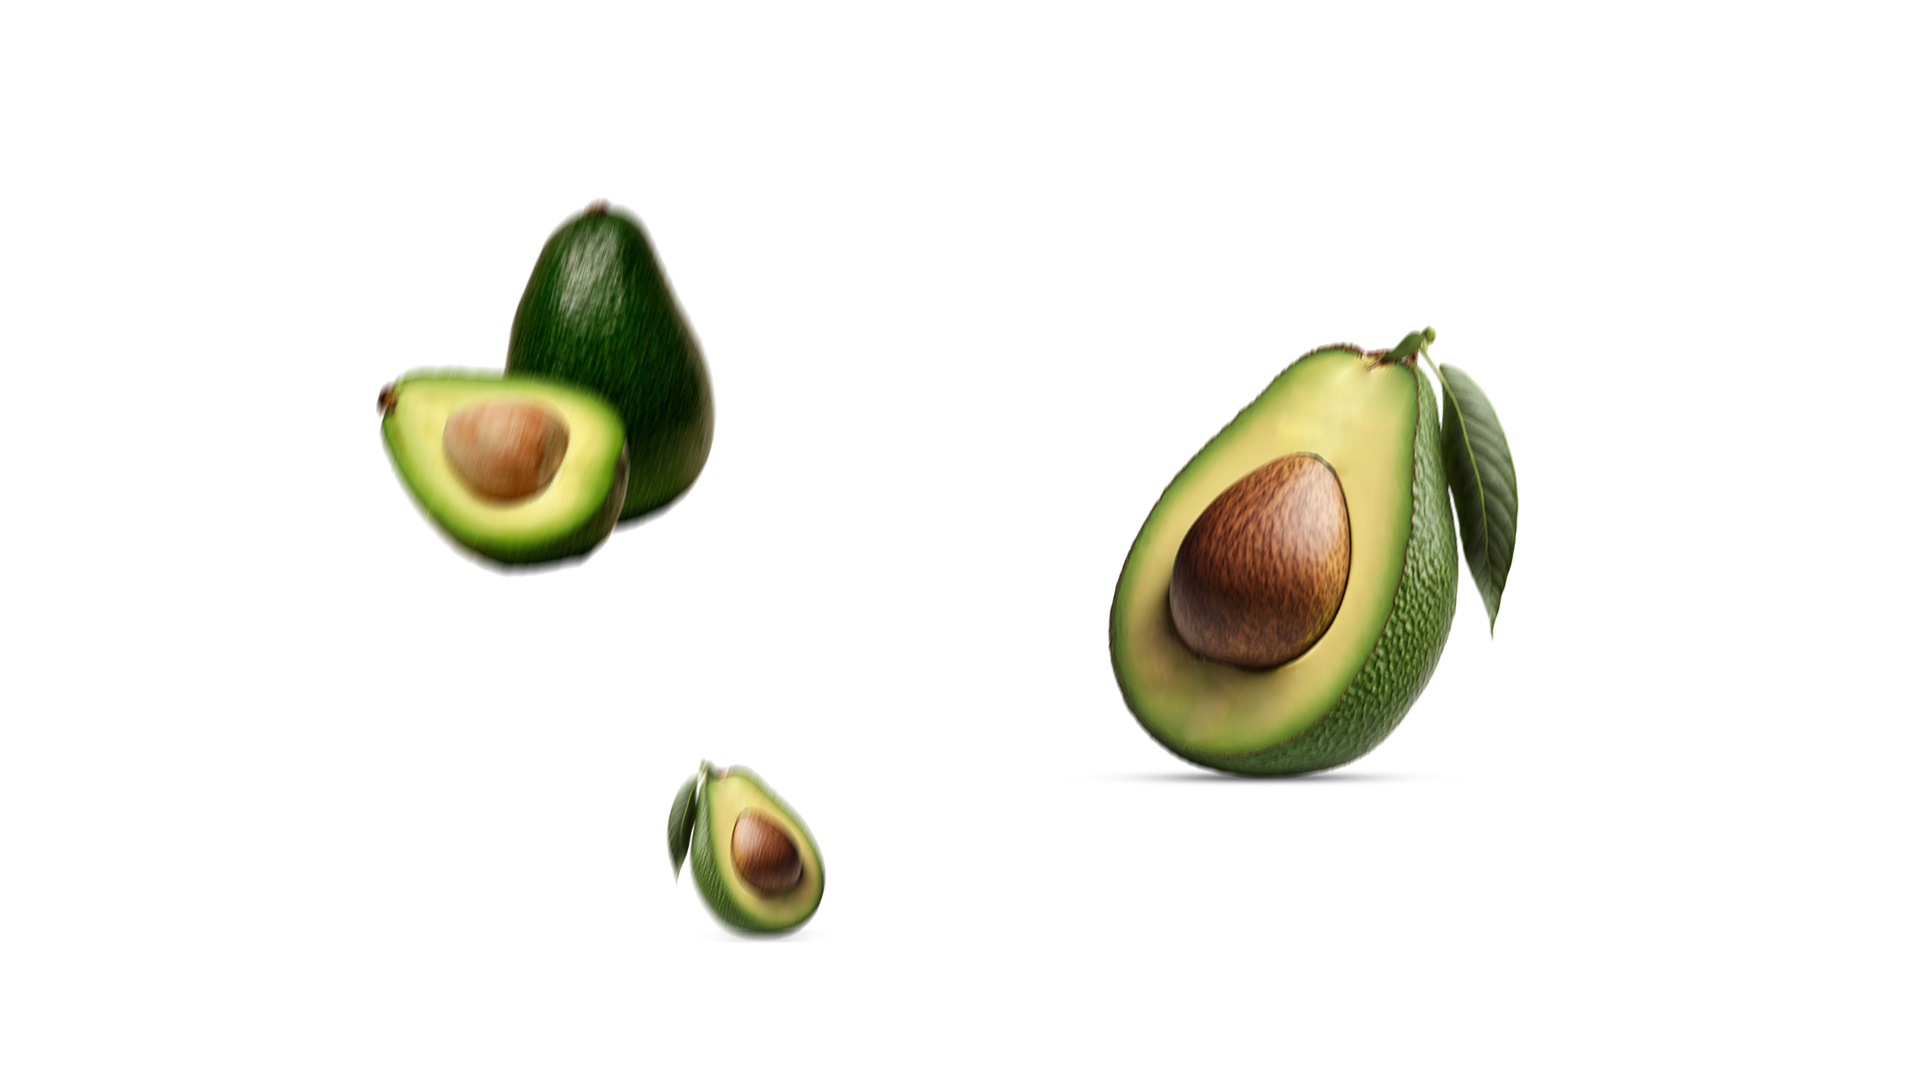
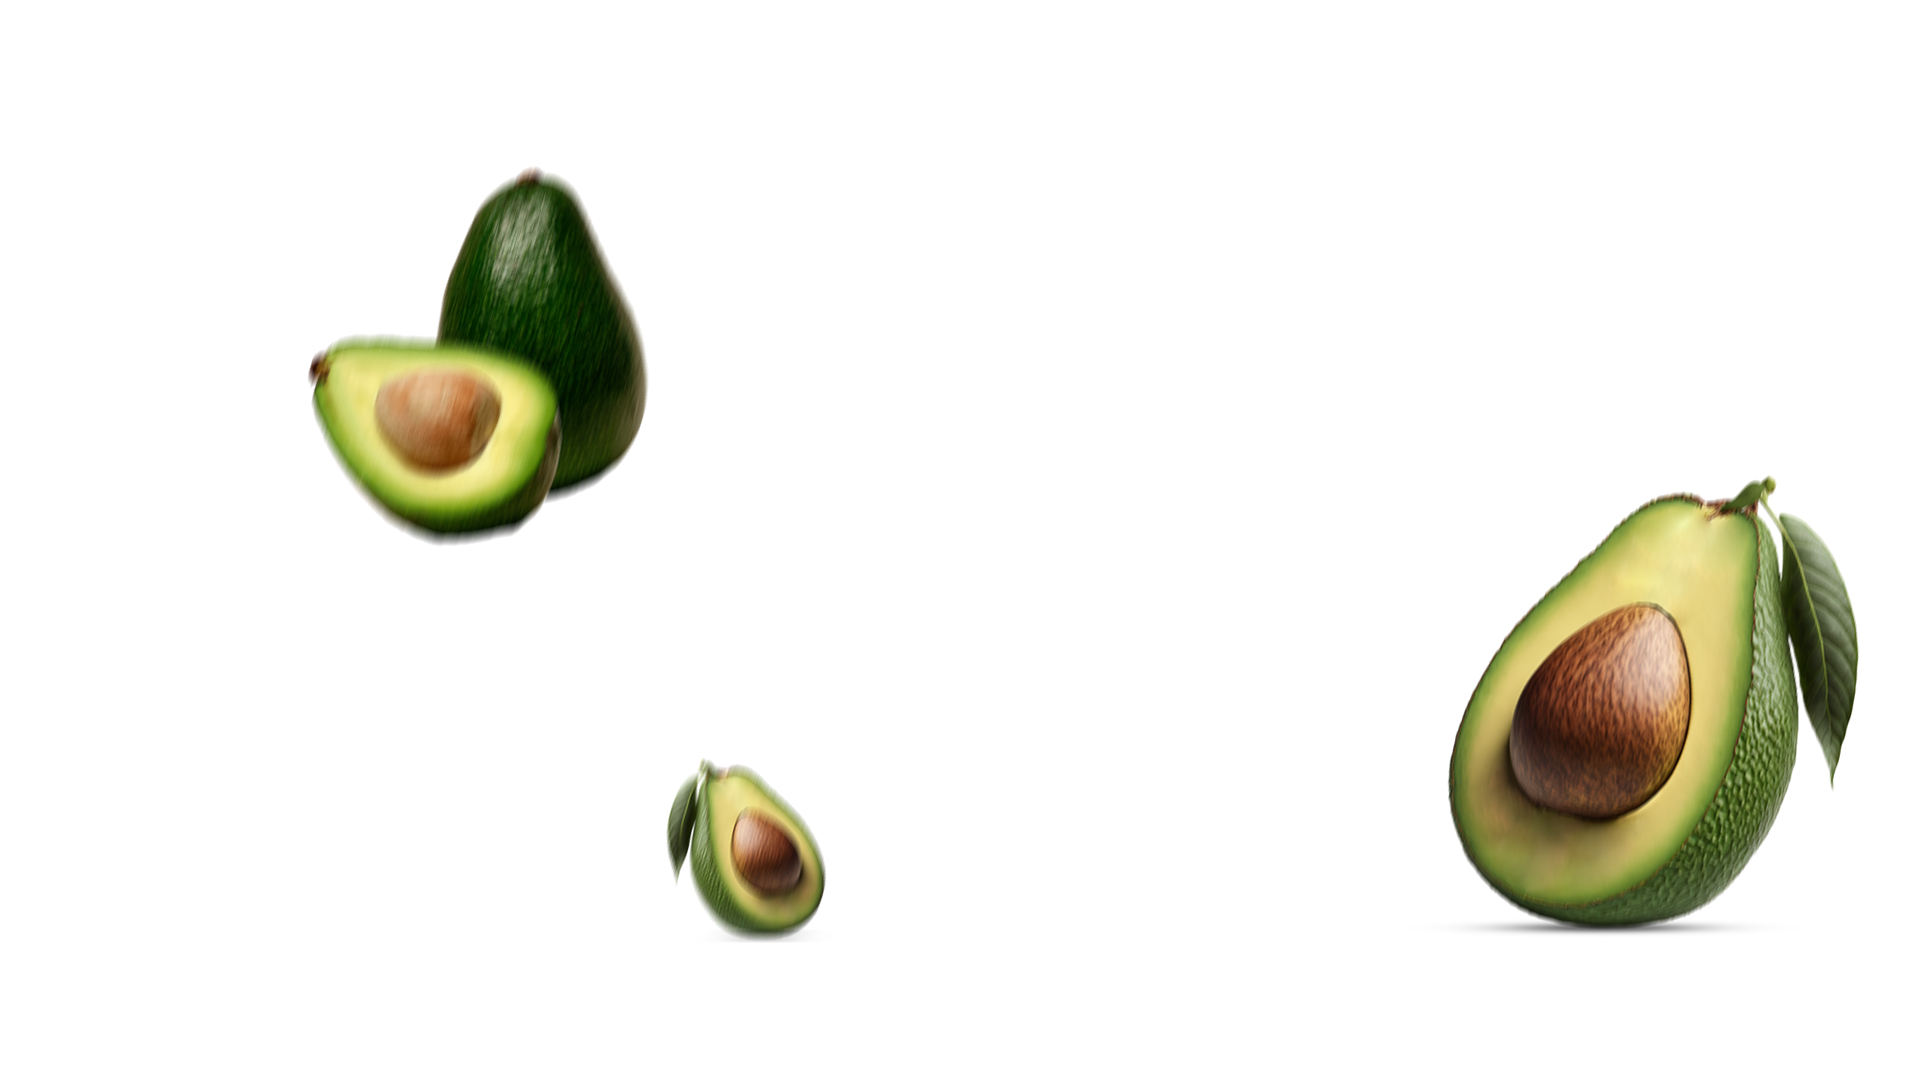
Deploy update

Changed region(s): [[0.5625, 0.3056, 0.9688, 0.8861], [0.1562, 0.1528, 0.375, 0.55]]

diff --git a/style.css b/style.css
@@ -25,7 +25,7 @@
 
     position: absolute;
     left: 50%;
-    top: 50%;
+    top: 15%;
     transform: translate(-50%, -50%);
  }
 
